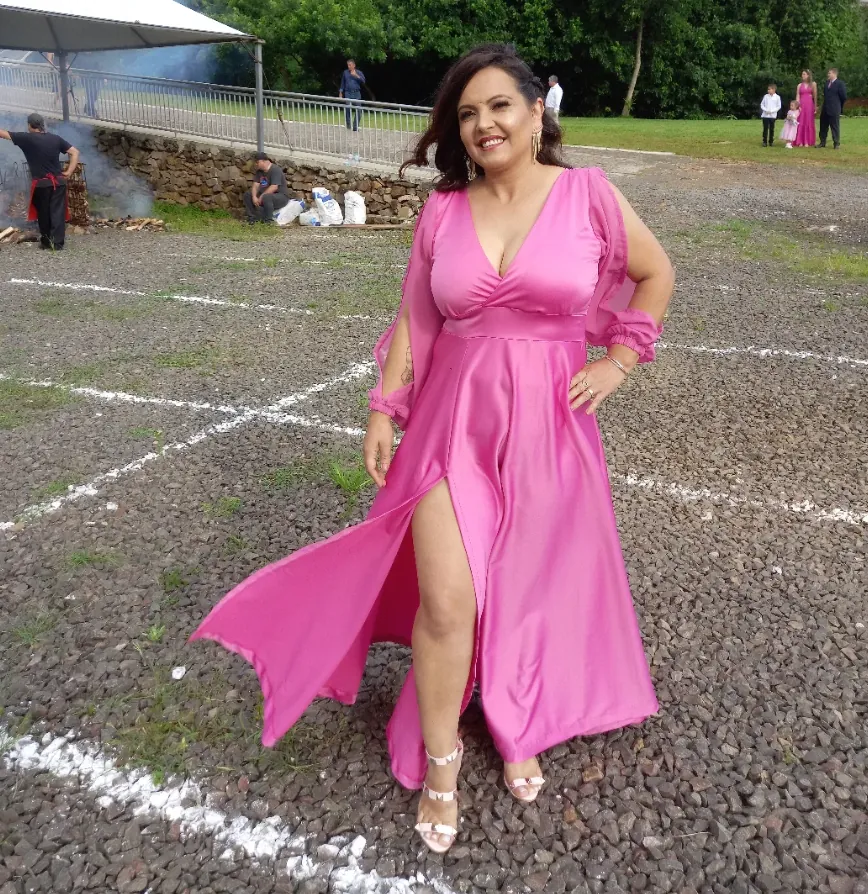
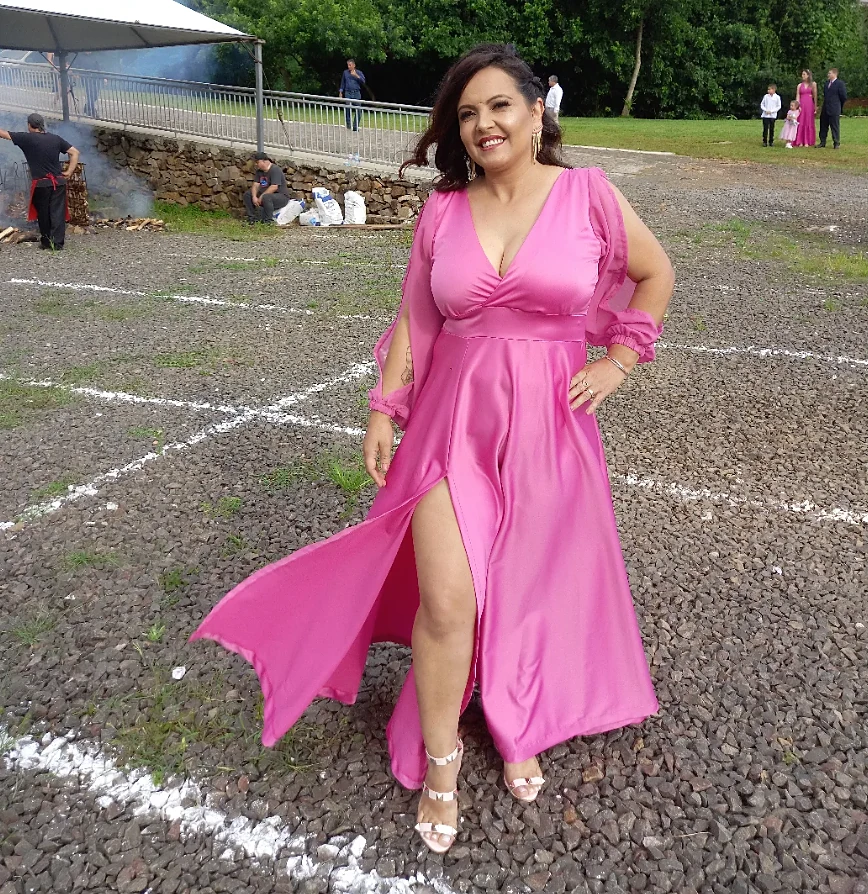
Melhora nitidez das fotos e ajusta conteúdo
- Fotos recomprimidas com qualidade 90 e nitidez leve (script em scripts/otimizar-fotos.py)
- Galeria amplia menos as fotos no parallax (1.2 para 1.06)
- Remove seção de depoimentos (não haverá depoimentos)
- Card de consertos ganha etiquetas com os tipos de serviço
- Botão de WhatsApp no "Como funciona" e seção ajustada para telas baixas

diff --git a/src/components/HowItWorks.tsx b/src/components/HowItWorks.tsx
@@ -1,6 +1,8 @@
 import { useRef } from 'react'
-import { ChatCircleDots, Confetti, Ruler, type Icon } from '@phosphor-icons/react'
+import { ChatCircleDots, Confetti, Ruler, WhatsappLogo, type Icon } from '@phosphor-icons/react'
 import { gsap, useGSAP, MQ } from '../lib/gsap'
+import { CtaButton } from './ui/CtaButton'
+import { CTA_LABEL, WHATSAPP_URL } from '../data/site'
 import { photos, type Photo } from '../data/photos'
 
 type Step = { icon: Icon; title: string; text: string; photo: Photo }
@@ -110,16 +112,16 @@ export function HowItWorks() {
 
   return (
     <section id="como-funciona" ref={root} data-bg="blush" className="px-4 py-28 md:py-36 lg:py-0">
-      <div className="mx-auto grid max-w-6xl gap-12 lg:min-h-[100dvh] lg:grid-cols-2 lg:items-center lg:gap-16">
+      <div className="mx-auto grid max-w-6xl gap-12 lg:min-h-[100dvh] lg:grid-cols-2 lg:items-center lg:gap-16 lg:pt-24 lg:pb-8">
         <div>
           <h2
             data-head
-            className="font-display text-[clamp(2.25rem,4.6vw,4rem)] leading-[1.02] font-extrabold tracking-tight text-balance"
+            className="font-display text-[clamp(2.25rem,min(4.6vw,7dvh),4rem)] leading-[1.02] font-extrabold tracking-tight text-balance"
           >
             Do primeiro “oi” até a peça pronta.
           </h2>
 
-          <ol className="relative mt-12 space-y-10 pl-16">
+          <ol className="relative mt-10 space-y-8 pl-16 lg:mt-[4dvh] lg:space-y-[3dvh]">
             {/* Linha de progresso (preenche com o scroll no desktop) */}
             <span aria-hidden className="absolute top-3 bottom-3 left-[23px] hidden w-0.5 bg-ink/15 lg:block">
               <span data-line-fill className="block h-full w-full origin-top bg-ink" />
@@ -145,10 +147,17 @@ export function HowItWorks() {
               </li>
             ))}
           </ol>
+
+          {/* CTA logo após os passos: o primeiro passo já é chamar no WhatsApp */}
+          <div data-how-cta className="mt-10 pl-16 lg:mt-[4dvh]">
+            <CtaButton href={WHATSAPP_URL} icon={<WhatsappLogo weight="fill" className="size-6" />}>
+              {CTA_LABEL}
+            </CtaButton>
+          </div>
         </div>
 
         {/* Pilha de fotos que troca com a rolagem (desktop) */}
-        <div className="relative hidden h-[74dvh] max-h-[680px] lg:motion-safe:block">
+        <div className="relative hidden h-[min(72dvh,680px)] lg:motion-safe:block">
           {steps.map(({ title, photo }, i) => (
             <div
               key={title}

diff --git a/src/components/Services.tsx b/src/components/Services.tsx
@@ -42,6 +42,9 @@ const services: Service[] = [
   },
 ]
 
+// Tipos de conserto exibidos como etiquetas no card amarelo
+const repairs = ['Barra e bainha', 'Ajuste de cintura', 'Troca de zíper', 'Reforma', 'Ajuste de vestido']
+
 /**
  * SERVIÇOS (solução em benefícios).
  * Fundo: lilás (data-bg="lilac").
@@ -87,6 +90,16 @@ export function Services() {
           duration: 1.4,
           ease: 'expo.out',
           scrollTrigger: { trigger: q('[data-grid]')[0], start: 'top 80%' },
+        })
+
+        // ANIMAÇÃO 2b: etiquetas de conserto "pulam" uma a uma
+        gsap.from(q('[data-repair]'), {
+          scale: 0.6,
+          autoAlpha: 0,
+          stagger: 0.07,
+          duration: 0.6,
+          ease: 'back.out(2)',
+          scrollTrigger: { trigger: '#consertos', start: 'top 80%' },
         })
 
         // ANIMAÇÃO 3
@@ -172,7 +185,7 @@ export function Services() {
             </article>
           ))}
 
-          {/* Card de consertos: largura total, sem foto (não há foto de conserto ainda) */}
+          {/* Card de consertos: largura total, sem foto. Os tipos de serviço viram etiquetas. */}
           <article
             id="consertos"
             data-card
@@ -189,8 +202,19 @@ export function Services() {
                 Consertos e ajustes de qualquer peça
               </h3>
               <p className="mt-4 max-w-[52ch] text-lg text-ink/85">
-                Barra, bainha, cintura, zíper, reforma. Sua roupa volta firme, bonita e do seu tamanho.
+                Sua roupa volta firme, bonita e do seu tamanho. Na dúvida, manda uma foto que a Daia te fala.
               </p>
+              <ul aria-label="Tipos de conserto" className="mt-6 flex flex-wrap gap-2">
+                {repairs.map((r) => (
+                  <li
+                    data-repair
+                    key={r}
+                    className="rounded-full border-2 border-ink/80 bg-white/60 px-4 py-1.5 text-[16px] font-semibold"
+                  >
+                    {r}
+                  </li>
+                ))}
+              </ul>
             </div>
             <CtaButton
               href={WHATSAPP_URL}

diff --git a/src/App.tsx b/src/App.tsx
@@ -9,7 +9,6 @@ import { Problem } from './components/Problem'
 import { Services } from './components/Services'
 import { HowItWorks } from './components/HowItWorks'
 import { Gallery } from './components/Gallery'
-import { Testimonials } from './components/Testimonials'
 import { About } from './components/About'
 import { Faq } from './components/Faq'
 import { FinalCta } from './components/FinalCta'
@@ -64,7 +63,6 @@ export default function App() {
         <Services />
         <HowItWorks />
         <Gallery />
-        <Testimonials />
         <About />
         <Faq />
         <FinalCta />

diff --git a/src/components/Gallery.tsx b/src/components/Gallery.tsx
@@ -66,12 +66,12 @@ export function Gallery() {
 
         // Parallax interno de cada foto, ligado ao movimento horizontal
         q('[data-gallery-img]').forEach((img) => {
-          gsap.set(img, { scale: 1.2 })
+          gsap.set(img, { scale: 1.06 }) // ampliação mínima: as fotos originais são pequenas
           gsap.fromTo(
             img,
-            { xPercent: -7 },
+            { xPercent: -2.5 },
             {
-              xPercent: 7,
+              xPercent: 2.5,
               ease: 'none',
               scrollTrigger: {
                 trigger: img.parentElement,

diff --git a/scripts/otimizar-fotos.py b/scripts/otimizar-fotos.py
@@ -1,0 +1,33 @@
+"""
+Converte as fotos de img/ (PNG ou JPG) para WebP em public/img/.
+
+Uso:  python scripts/otimizar-fotos.py
+Requer: pip install pillow
+
+- Mantém o mesmo nome do arquivo (vestido_3.png -> vestido_3.webp).
+- Limita o lado maior a 1800 px (fotos originais de celular ficam nítidas em telas retina).
+- Aplica nitidez leve e qualidade alta para não perder textura de tecido.
+- No fim, imprime largura e altura de cada foto: se mudar, atualize src/data/photos.ts.
+"""
+from pathlib import Path
+from PIL import Image, ImageFilter, ImageOps
+
+ROOT = Path(__file__).resolve().parent.parent
+SRC = ROOT / "img"
+OUT = ROOT / "public" / "img"
+MAX_SIDE = 1800
+QUALITY = 90
+
+OUT.mkdir(parents=True, exist_ok=True)
+total = 0
+for f in sorted(SRC.iterdir()):
+    if f.suffix.lower() not in {".png", ".jpg", ".jpeg", ".webp", ".heic"}:
+        continue
+    im = ImageOps.exif_transpose(Image.open(f)).convert("RGB")
+    im.thumbnail((MAX_SIDE, MAX_SIDE), Image.LANCZOS)
+    im = im.filter(ImageFilter.UnsharpMask(radius=1.2, percent=55, threshold=2))
+    dest = OUT / f"{f.stem}.webp"
+    im.save(dest, "WEBP", quality=QUALITY, method=6)
+    total += dest.stat().st_size
+    print(f"{f.stem:20s} {im.width}x{im.height}  {dest.stat().st_size // 1024} KB")
+print(f"Total: {total // 1024} KB")
